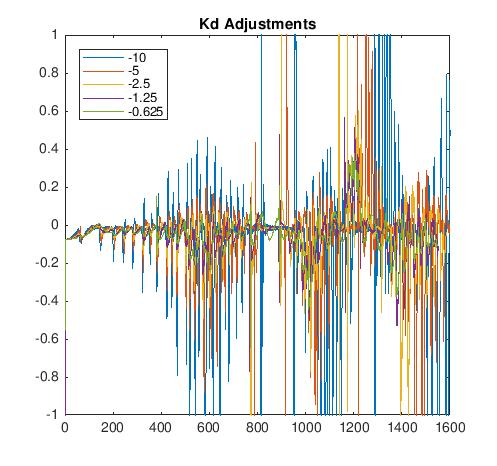
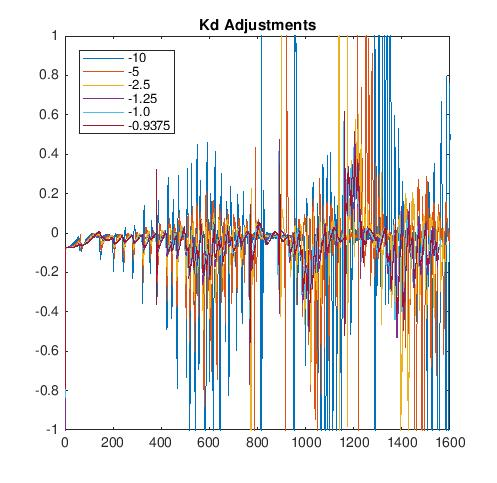
Readme with tuning info

diff --git a/README.md b/README.md
@@ -22,23 +22,33 @@ This repository contains the code needed to complete the PID project for Udacity
 ---
 
 [iKd]: ./data/KdTuning.jpg "Kd Tuning"
-[iKpTuningRough]: ./data/KpTuningRough.jpg" "Kp Tuning Rough"
+[iKdFine]: ./data/KdTuningFine.jpg "Kd Fine Tuning"
+[iKp]: ./data/KpTuning.jpg "Kp Tuning"
+[iKpFine]: ./data/KpTuningFine.jpg "Kp Fine Tuning"
+[iFinal]: ./data/Final.jpg "Final"
 
 ## PID Tuning Information
 
-Three command line parameters can be provided to the pid executable to be used as the coefficients.  Initially I attempted to use Twiddle/Coordinate Ascent in a runtime fashion, but abandoned that approach due to the dynamic nature of the simulation track (see [previous git commit](https://github.com/Merberg/CarND-PID-Control-Project/tree/a8063e40dc301fa688fc396c0c9475dcf6e0c090) for source).  I then turned to this common tuning method taught in numerous courses and fully captured in [PID Without a PhD](http://www.wescottdesign.com/articles/pid/pidWithoutAPhd.pdf):
+Three command line parameters can be provided to the pid executable to be used as the coefficients.  Initially I attempted to use Twiddle/Coordinate Ascent in a runtime fashion, but abandoned that approach due to the dynamic nature of the simulation track (see [previous git commit](https://github.com/Merberg/CarND-PID-Control-Project/tree/a8063e40dc301fa688fc396c0c9475dcf6e0c090) for source).  I then turned to a common tuning method taught in numerous courses.  It starts by tuning D (the future trend), then P (the current response), and finally I (past influence).  An excellent description is fully captured in [PID Without a PhD](http://www.wescottdesign.com/articles/pid/pidWithoutAPhd.pdf).
+
+### Tuning Steps
+
 1. Set all gains to zero.
 2. Set Ki to a small value (-0.1) such that there are minimumal or slow oscillations.
 2. Jump Kd to 100 times Ki (-10.0).
-3. Back off Kd by factors of 2-4 to correct oscillations.
-![iKd]
-4. Drop Kp to 1% of Kd and increase by factors of 8-10 until oscillations or excessive overshoot appears. 
-![iKpTuningRough]
-*Note: 1% of Kd was too sluggish to drive around the track*
-5. Fine tune Kp by a factor of 2-4.  In order to keep the car on the track, additional tuning of Kd was done with Kp.
-Set Ki to about 1% of Kp.
-Increase Ki until oscillations start.
-Decrease Ki by a factor of 2-4.
+3. Back off Kd by factors of 2-4 to correct oscillations. The selected value with least amount of oscillations while still maintaining the course is Kd = -1.0; ![iKd]![iKdFine]
+4. Drop Kp to 1% of Kd and increase by factors of 8-10 until oscillations or excessive overshoot appears.  1% of Kd was too sluggish to drive around the track while a Kd of -0.8 oscillated too wildly to stay within the lanes. ![iKp]
+5. Fine tune Kp by a factor of 2-4.  A Kp = -0.14 had a smoother performance, but -0.16 maintained the lanes slightly better. ![iKpFine]
+6. Set Ki to about 1% of Kp.  This value of -0.0014 was large enough to notice increased oscillations on the straight sections.
+7. Decrease Ki by a factor of 2-4.  Tuning the Ki term was more focused on keeping the car within the lanes on the large turns.  A slightly positive, Ki = 0.000005, helps.
+8. STOP TUNING!!!
+
+```
+Kp = -0.16;
+Ki = 0.000005;
+Kd = -1.0;
+```
+![iFinal]
 
 
 
